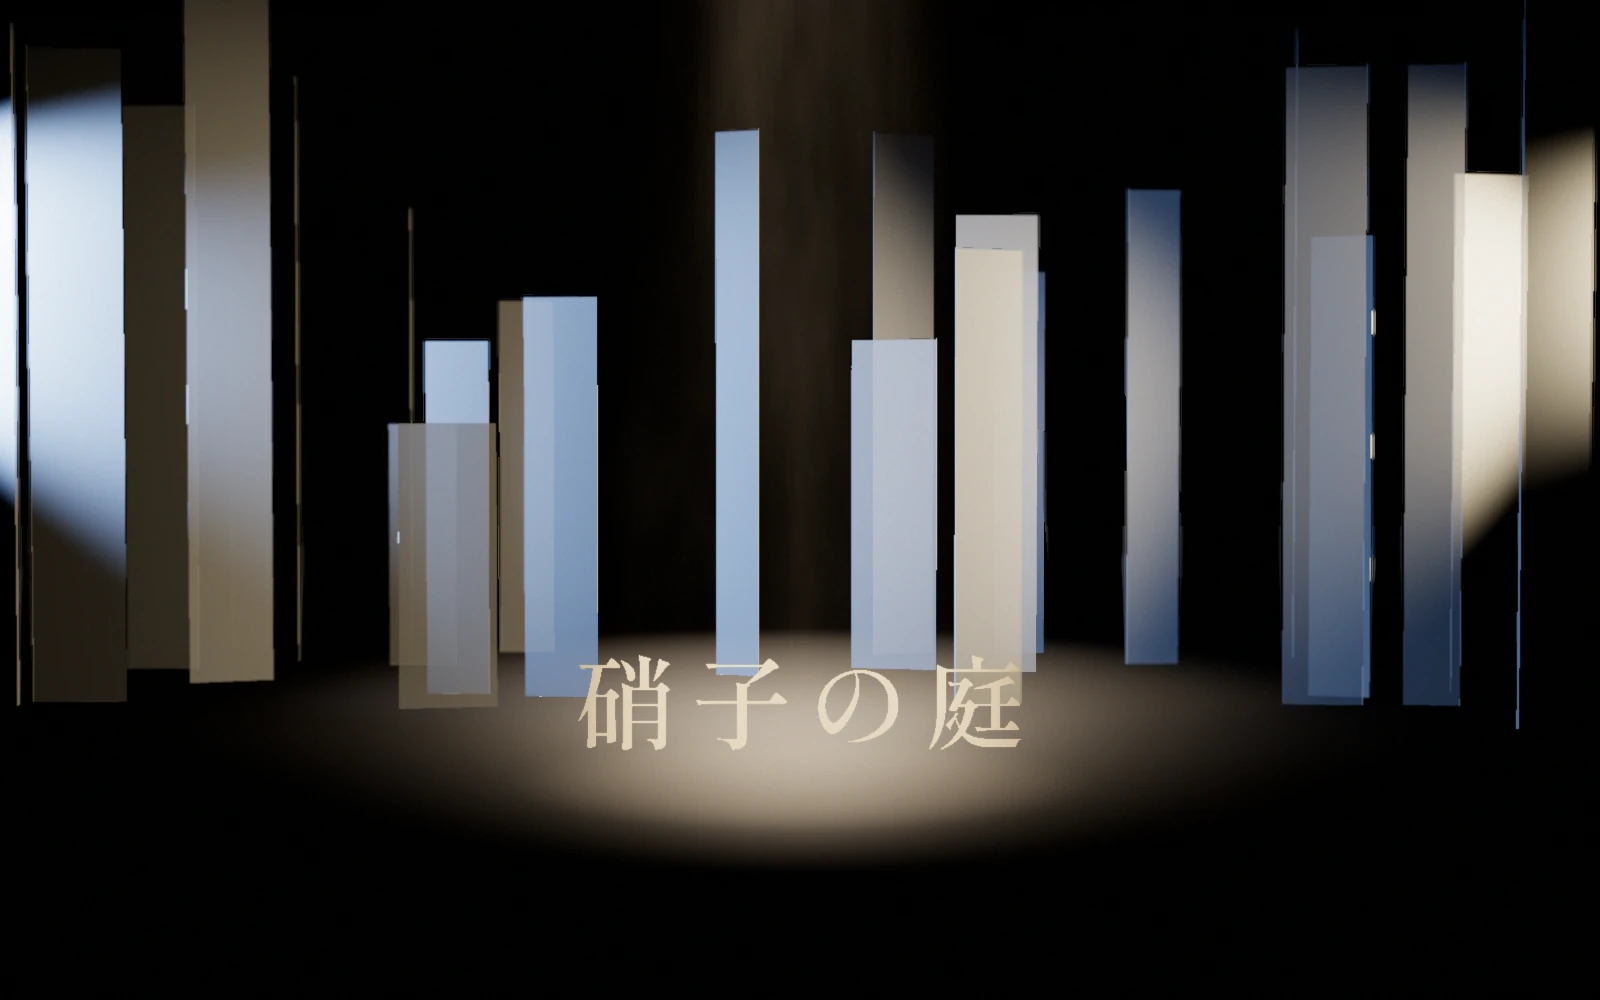
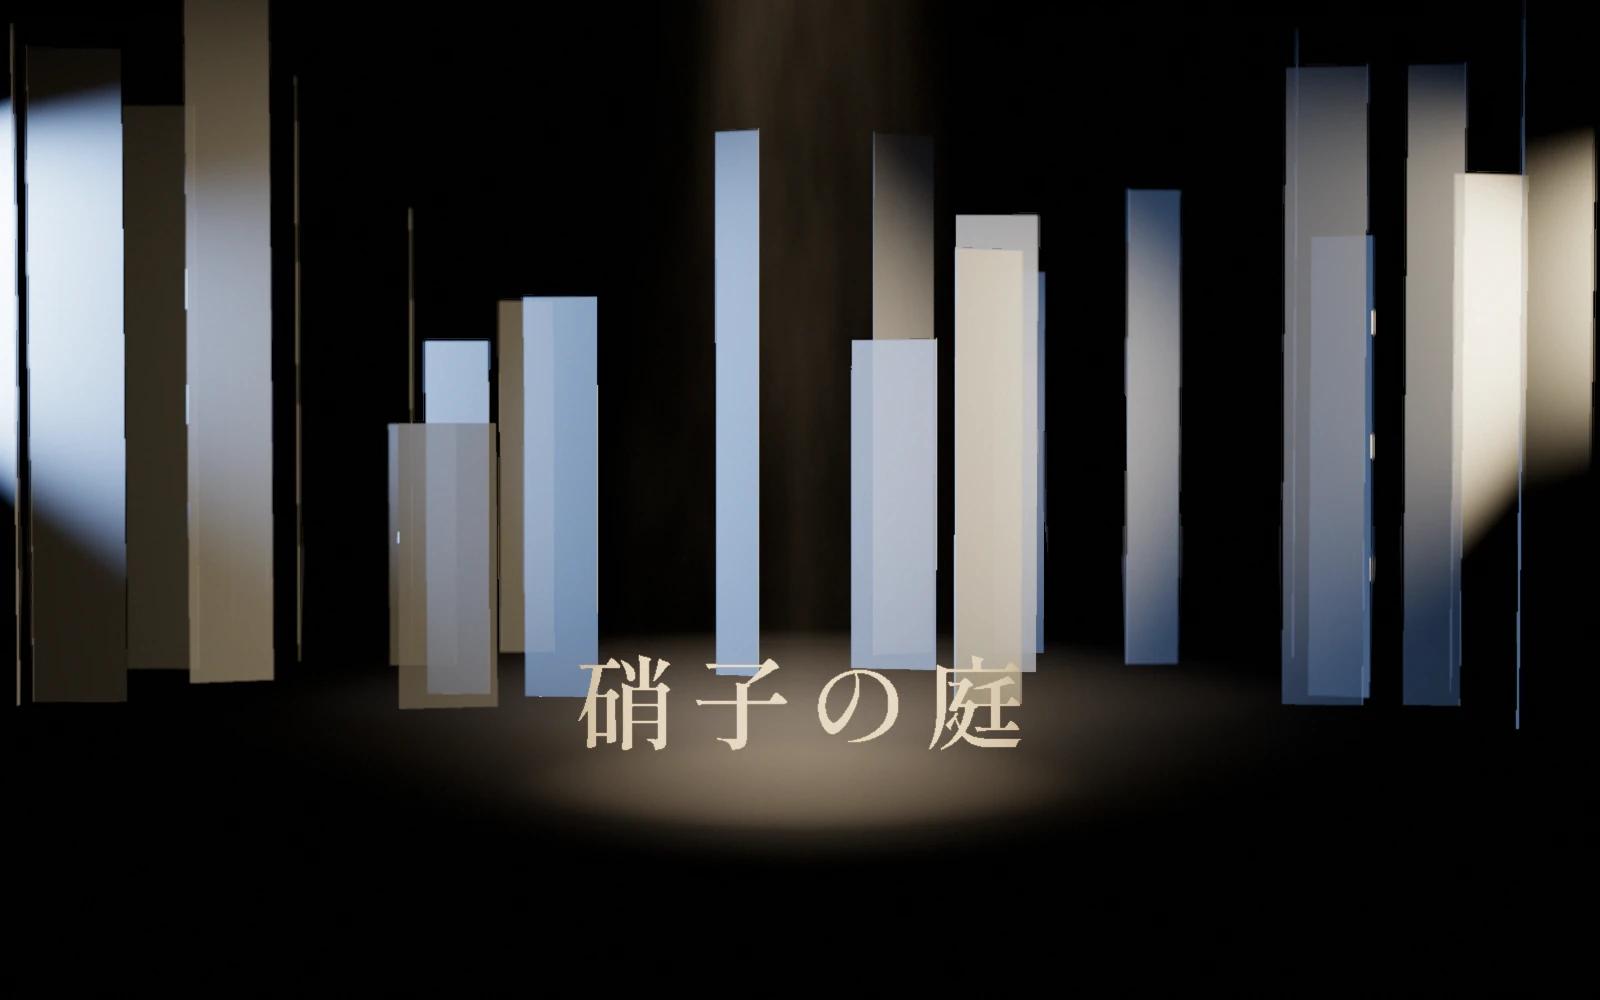
S02-01：1回目審査の指摘を反映（席種に Q3 の逆光、最後の購入を冒頭のトップ光で締める、スクロールで寄る、スマホの残席、購入導線、会場名）
Claude-Session: https://claude.ai/code/session_01BwmUGTgfPEj1Tu5124aDtq

Changed region(s): [[0.25, 0.62, 0.75, 0.868]]

diff --git a/studio/projects/S02-01-ticket-lp/site/index.html b/studio/projects/S02-01-ticket-lp/site/index.html
@@ -15,6 +15,7 @@ nav b{font:600 16px/1 "Shippori Mincho",serif;letter-spacing:.14em}nav span{font
 .hero{height:300vh;position:relative}
 .pin{position:sticky;top:0;height:100vh;overflow:hidden}
 .pin picture,.pin img{position:absolute;inset:0;width:100%;height:100%;object-fit:cover}
+.pin picture{transform:scale(calc(1 + var(--p,0)*.05));transform-origin:50% 60%}
 .l2{opacity:var(--a2,0)}.l3{opacity:var(--a3,0)}
 .head{position:absolute;left:0;right:0;top:calc(52px + 7vh);text-align:center;padding:0 22px}
 .head .ey{font-size:14px;letter-spacing:.24em;color:var(--warm);margin:0}
@@ -44,7 +45,13 @@ td.d{font:500 22px/1.2 "Shippori Mincho";white-space:nowrap}td .w{font-size:13px
 .seat h3{margin:0;font:500 15px/1 "Noto Sans JP";color:var(--sub);letter-spacing:.1em}
 .seat .p{font:500 44px/1.1 "Shippori Mincho",serif;margin:14px 0 10px}.seat .p small{font-size:16px;color:var(--sub);margin-left:4px}
 .seat p{margin:0;color:var(--sub);font-size:14px;line-height:1.7}
-.final{text-align:center;padding:140px 0 120px}
+.final{text-align:center;padding:140px 0 min(46vw,520px)}
+.lit{position:relative;isolation:isolate;overflow:hidden}
+.lit::before{content:"";position:absolute;inset:0;z-index:-1;background-size:cover;background-position:50% 70%;opacity:.55;-webkit-mask-image:linear-gradient(#0000,#000 25%,#000 75%,#0000);mask-image:linear-gradient(#0000,#000 25%,#000 75%,#0000)}
+.q3::before{background-image:url(img/stage-d3.webp)}.q1::before{background-image:url(img/stage-d1.webp);opacity:.9;background-position:50% 100%;-webkit-mask-image:linear-gradient(#0000,#000 30%);mask-image:linear-gradient(#0000,#000 30%)}
+.q3 .seat{background:rgba(13,13,14,.78);backdrop-filter:blur(8px);-webkit-backdrop-filter:blur(8px)}
+.pick{display:flex;gap:10px;justify-content:center;flex-wrap:wrap;margin:0 0 28px}
+.pick select{background:#111;color:var(--ink);border:1px solid #3a3a3c;border-radius:12px;padding:12px 14px;font:400 16px "Noto Sans JP"}
 .final h2{margin-bottom:18px}.final p{color:var(--sub);margin:0 0 36px}
 footer{padding:30px 22px 120px;text-align:center;font-size:12px;color:var(--mute)}
 .sticky{position:fixed;left:0;right:0;bottom:0;z-index:15;display:none;padding:12px 16px calc(12px + env(safe-area-inset-bottom));background:rgba(0,0,0,.86);backdrop-filter:blur(20px);-webkit-backdrop-filter:blur(20px);border-top:1px solid #1d1d1f;align-items:center;justify-content:space-between;gap:12px}
@@ -52,16 +59,16 @@ footer{padding:30px 22px 120px;text-align:center;font-size:12px;color:var(--mute
 .rv{opacity:0;transform:translateY(16px);transition:opacity .8s cubic-bezier(.2,.7,.2,1),transform .8s cubic-bezier(.2,.7,.2,1)}.rv.in{opacity:1;transform:none}
 @media(prefers-reduced-motion:reduce){.rv{opacity:1;transform:none;transition:none}.l2,.l3{opacity:1}}
 @media(max-width:734px){nav span{display:none}.cast{grid-template-columns:repeat(3,1fr)}.seats{grid-template-columns:1fr}.cue{display:none}
- section{padding:110px 0}.sticky{display:flex}td.d{font-size:19px}th:nth-child(3),td:nth-child(3){display:none}}
+ section{padding:110px 0}.sticky{display:flex}td.d{font-size:19px}th,td{padding:16px 4px;font-size:15px}}
 </style></head><body>
-<nav><div><b>硝子の庭</b><span>灯守座 第24回公演</span></div><a class="buy" href="#tickets">チケットを購入</a></nav>
+<nav><div><b>硝子の庭</b><span>灯守座 第24回公演</span></div><a class="buy" href="#buy">チケットを購入</a></nav>
 <header class="hero" id="hero"><div class="pin">
  <picture><source media="(max-width:734px)" srcset="img/stage-m1.webp"><img src="img/stage-d1.webp" alt="" width="1600" height="1000" fetchpriority="high"></picture>
  <picture class="l2"><source media="(max-width:734px)" srcset="img/stage-m2.webp"><img src="img/stage-d2.webp" alt="" width="1600" height="1000"></picture>
  <picture class="l3"><source media="(max-width:734px)" srcset="img/stage-m3.webp"><img src="img/stage-d3.webp" alt="暗い舞台の中央に題名『硝子の庭』の文字が立ち、奥に細い硝子の板が林のように並ぶ。照明が上から、左右から、奥から順に入っていく" width="1600" height="1000"></picture>
  <div class="head"><p class="ey">灯守座 第24回公演</p><h1>作・演出 朝霧 遼</h1></div>
  <div class="cue" aria-hidden="true"><i id="q1" class="on">Q1　トップ</i><i id="q2">Q2　サイド</i><i id="q3">Q3　バック</i></div>
- <div class="foot"><p class="date">2026.12.11<small>金</small>—<small></small>12.20<small>日</small></p><p class="venue">灯台座ホール（全10ステージ）</p><a class="buy lg" href="#tickets">チケットを購入</a></div>
+ <div class="foot"><p class="date">2026.12.11<small>金</small>—<small></small>12.20<small>日</small></p><p class="venue">港町ホール（全10ステージ）</p><a class="buy lg" href="#buy">チケットを購入</a></div>
 </div></header>
 <main>
 <section><div class="wrap">
@@ -95,7 +102,7 @@ footer{padding:30px 22px 120px;text-align:center;font-size:12px;color:var(--mute
   <tr><td class="d">12.20<span class="w">日</span></td><td>13:00</td><td><span class="dot"></span>あり（千秋楽）</td></tr>
  </tbody></table>
 </div></section>
-<section><div class="wrap">
+<section class="lit q3"><div class="wrap">
  <p class="eyebrow rv">SEATS</p>
  <h2 class="rv">席種</h2>
  <div class="seats">
@@ -104,19 +111,21 @@ footer{padding:30px 22px 120px;text-align:center;font-size:12px;color:var(--mute
   <div class="seat rv"><h3>学生</h3><p class="p">3,000<small>円</small></p><p>当日、受付で<span class="nb">学生証をご提示ください</span></p></div>
  </div>
 </div></section>
-<section class="final"><div class="wrap">
+<section class="final lit q1" id="buy"><div class="wrap">
  <h2 class="rv"><span class="nb">ひと冬だけの、</span><span class="nb">硝子の庭へ</span></h2>
  <p class="rv">チケットは各公演の前日 23:59 まで</p>
- <a class="buy lg rv" href="#tickets">チケットを購入</a>
+ <div class="pick rv"><label class="nb"><select aria-label="公演日"><option>12.11 金 19:00</option><option>12.12 土 13:00</option><option>12.12 土 18:00</option><option>12.13 日 13:00</option><option>12.16 水 19:00</option><option>12.17 木 14:00</option><option>12.17 木 19:00</option><option>12.18 金 19:00</option><option>12.19 土 13:00</option><option>12.20 日 13:00（千秋楽）</option></select></label>
+ <label class="nb"><select aria-label="席種"><option>S席 6,800円</option><option>A席 5,200円</option><option>学生 3,000円</option></select></label></div>
+ <a class="buy lg rv" href="#buy" onclick="alert('見本のため、購入ページにはつながっていません');return false">この公演を購入する</a>
 </div></section>
 </main>
 <footer>これは架空の劇団・公演・会場によるサイトの見本です（天狼スタジオ）</footer>
-<div class="sticky"><span>12.11—12.20<br>灯台座ホール</span><a class="buy" href="#tickets">チケットを購入</a></div>
+<div class="sticky"><span>12.11—12.20<br>港町ホール</span><a class="buy" href="#buy">チケットを購入</a></div>
 <script>
 const h=document.getElementById('hero'),q=[1,2,3].map(i=>document.getElementById('q'+i));
 const ss=x=>x*x*(3-2*x),cl=x=>Math.min(1,Math.max(0,x));
 const f=()=>{const p=cl(-h.getBoundingClientRect().top/(h.offsetHeight-innerHeight));
- const a2=ss(cl((p-.12)/.2)),a3=ss(cl((p-.5)/.2));h.style.setProperty('--a2',a2.toFixed(3));h.style.setProperty('--a3',a3.toFixed(3));
+ const a2=ss(cl((p-.12)/.2)),a3=ss(cl((p-.5)/.2));h.style.setProperty('--p',p.toFixed(3));h.style.setProperty('--a2',a2.toFixed(3));h.style.setProperty('--a3',a3.toFixed(3));
  q[1].classList.toggle('on',a2>.5);q[2].classList.toggle('on',a3>.5);};
 addEventListener('scroll',f,{passive:true});f();
 const io=new IntersectionObserver(es=>es.forEach(e=>{if(e.isIntersecting){e.target.classList.add('in');io.unobserve(e.target)}}),{rootMargin:'0px 0px -8% 0px'});

diff --git a/studio/projects/S02-01-ticket-lp/scene/stage.html b/studio/projects/S02-01-ticket-lp/scene/stage.html
@@ -37,7 +37,7 @@ const bkB=C.beam(scene,{from:[0,5,-7],to:[0,0,-2.6],radius:2.0,color:0xffe9cf,de
 window.renderAt=n=>{
   top.intensity=n>=1?700:0;topB.set(0,n>=1?1:0);
   sl.intensity=n>=2?260:0;sr.intensity=n>=2?220:0;
-  bk.intensity=n>=3?260:0;edgeMat.opacity=0;glassMat.opacity=n>=3?.45:n>=2?.32:.05;bkB.set(0,n>=3?1:0);
+  bk.intensity=n>=3?110:0;edgeMat.opacity=0;glassMat.opacity=n>=3?.45:n>=2?.32:.05;bkB.set(0,n>=3?1:0);
   if(desk){camera.position.set(0,1.15,7.2);camera.lookAt(0,.9,-1);}else{camera.position.set(0,1.2,7.6);camera.lookAt(0,1.2,-1);}
   if(S.bokeh){S.bokeh.uniforms.focus.value=7.2;S.bokeh.uniforms.aperture.value=.0007;}
   S.render();
